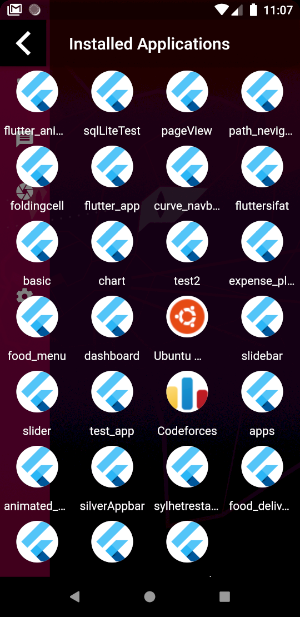
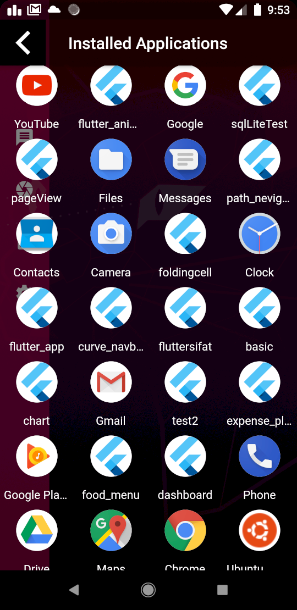
show system apps too

diff --git a/lib/Screens/apps.dart b/lib/Screens/apps.dart
@@ -8,8 +8,8 @@ class MyApps extends StatefulWidget {
 }
 
 class _MyAppsState extends State<MyApps> {
-  bool _showSystemApps = false;
-  bool _onlyLaunchableApps = false;
+  bool _showSystemApps = true;
+  bool _onlyLaunchableApps = true;
 
   @override
   Widget build(BuildContext context) {
@@ -96,7 +96,7 @@ class _ListAppsPagesContent extends StatelessWidget {
           return Scrollbar(
             child: GridView.builder(
                 physics: BouncingScrollPhysics(),
-                shrinkWrap: true,
+                // shrinkWrap: true,
                 gridDelegate: SliverGridDelegateWithFixedCrossAxisCount(
                     crossAxisCount: 4),
                 scrollDirection: Axis.vertical,

diff --git a/lib/main.dart b/lib/main.dart
@@ -1,6 +1,6 @@
 import 'package:flutter/material.dart';
-import 'package:launcher/apps.dart';
-import 'package:launcher/new.dart';
+import 'Screens/apps.dart';
+import 'Screens/Home.dart';
 
 void main() {
   runApp(MyApp());
@@ -20,7 +20,7 @@ class MyApp extends StatelessWidget {
       title: "Ubuntu Launcher",
       initialRoute: "/",
       routes: {
-        '/': (context) => New(),
+        '/': (context) => Home(),
         MyApps.route: (context) => MyApps(),
       },
     );

diff --git a/lib/Screens/Home.dart b/lib/Screens/Home.dart
@@ -1,10 +1,10 @@
 
 import 'package:flutter/material.dart';
-import 'package:launcher/apps.dart';
+import 'package:launcher/Screens/apps.dart';
 import 'package:vector_math/vector_math.dart' as math;
 import 'package:url_launcher/url_launcher.dart';
 
-class New extends StatelessWidget {
+class Home extends StatelessWidget {
   var scaffoldKey = GlobalKey<ScaffoldState>();
 
   _launchCaller() async {
